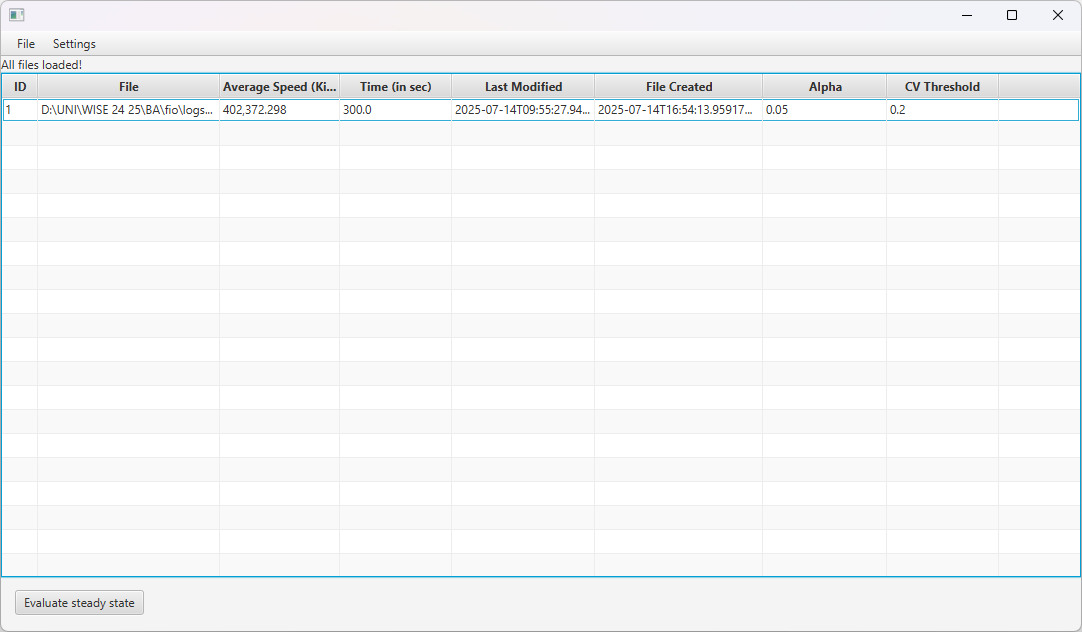
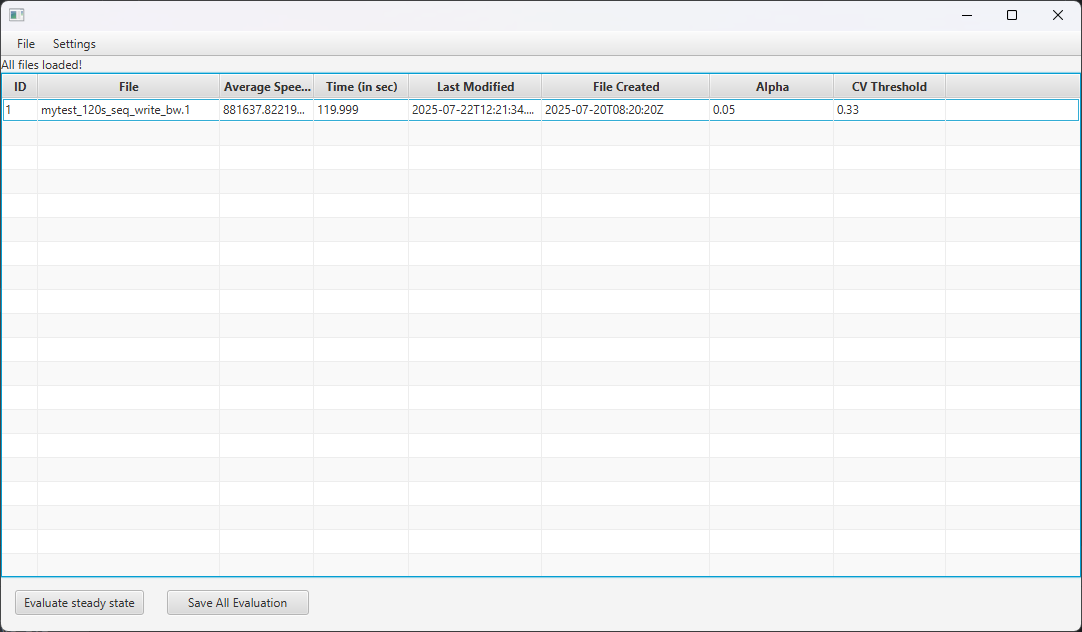
README

diff --git a/ExampleLog/README.md b/ExampleLog/README.md
@@ -1,36 +1,36 @@
-# Beispiel und Beschreibung der Log `mytest_300s_bw.1.log`
+# Beispiel und Beschreibung der Log `mytest_120s_seq_write_bw.1.log`
 
 ## Übersicht
 
-Die Datei `mytest_300s_bw.1.log` ist das Ergebnis eines Tests mit dem `fio` (Flexible I/O Tester)-Tool, entwickelt von Jens Axboe. Sie dokumentiert die Bandbreitenmessung eines zufälligen Schreibtests (random write) auf einer `fio` definierten Datenmenge.
+Die Datei `mytest_120s_seq_write_bw.1.log` ist das Ergebnis eines Tests mit dem `fio` (Flexible I/O Tester)-Tool, entwickelt von Jens Axboe. Sie dokumentiert die Bandbreitenmessung eines seq. write auf einer `fio` definierten Zeitlänge.
 
 ## Testkonfiguration
 
 ### Parameterbeschreibung
 Die Testkonfiguration wurde mit den folgenden Parametern ausgeführt:
 
-- **Testart**: Lesen (read)
-- **Schleifenanzahl (loop)**: 1000 Wiederholungen
-- **Maximale Laufzeit**: 300 Sekunden
-- **Datenmenge**: 1024 MB pro Schleife
+- **Testart**: Schreiben (write)
+- **Schleifenanzahl (loop)**: 100 Wiederholungen
+- **Maximale Laufzeit**: 120 Sekunden
+- **Datenmenge**: 10 GB pro Schleife
 
 ### Beispiel `fio`-Befehl
 Der Test wurde mit diesem Befehl durchgeführt:
 
 ```bash
-fio --rw=read --write_bw_log=mytest_300s --name=test --runtime=300 --size=1g --loop=1000
+fio fio --rw=write --write_bw_log=mytest_120s_seq_write_bw --name=test --runtime=120 --size=10g --loop=100
 ```
 
 ### Parametererläuterungen
 
-- `--rw=read`: read
-- `--write_bw_log`: "mytest_300s"
+- `--rw=write`: write
+- `--write_bw_log`: "mytest_120s_seq_write_bw"
 - `--name`: test
-- `--runtime`: 300 Sekunden
-- `--size=1024m`: Datenmenge von 1024 MB.
-- `--loops=1000`: Test wird 1000 Mal wiederholt.
+- `--runtime`: 120 Sekunden
+- `--size=1024m`: Datenmenge von 10 GB.
+- `--loops=1000`: Test wird 100 Mal wiederholt.
 
-Das Programm bricht nach 300 Sekunden unabhängig von der Loop Anzahl.
+Das Programm bricht nach 120 Sekunden unabhängig von der Loop Anzahl ab.
 
 ## Inhalt der Datei (`--write_bw_log`)
 
@@ -47,7 +47,7 @@ Die Datei enthält detaillierte Informationen über die Bandbreite und andere Le
 - Mit **Evaluate steady state** werden alle Tests durchgeführt und in einer Tabelle vorgestellt
 
 ## Evaluierung des Jobs mittels ATool
-- Evaluierung des `randwrite_loop_10_1024mb_bw.1.log`
+- Evaluierung des `mytest_120s_seq_write_bw.1.log`
 - Die Konfiguration sind mit dargestellt
 
 ![w](bilder/AtoolEval.png)
